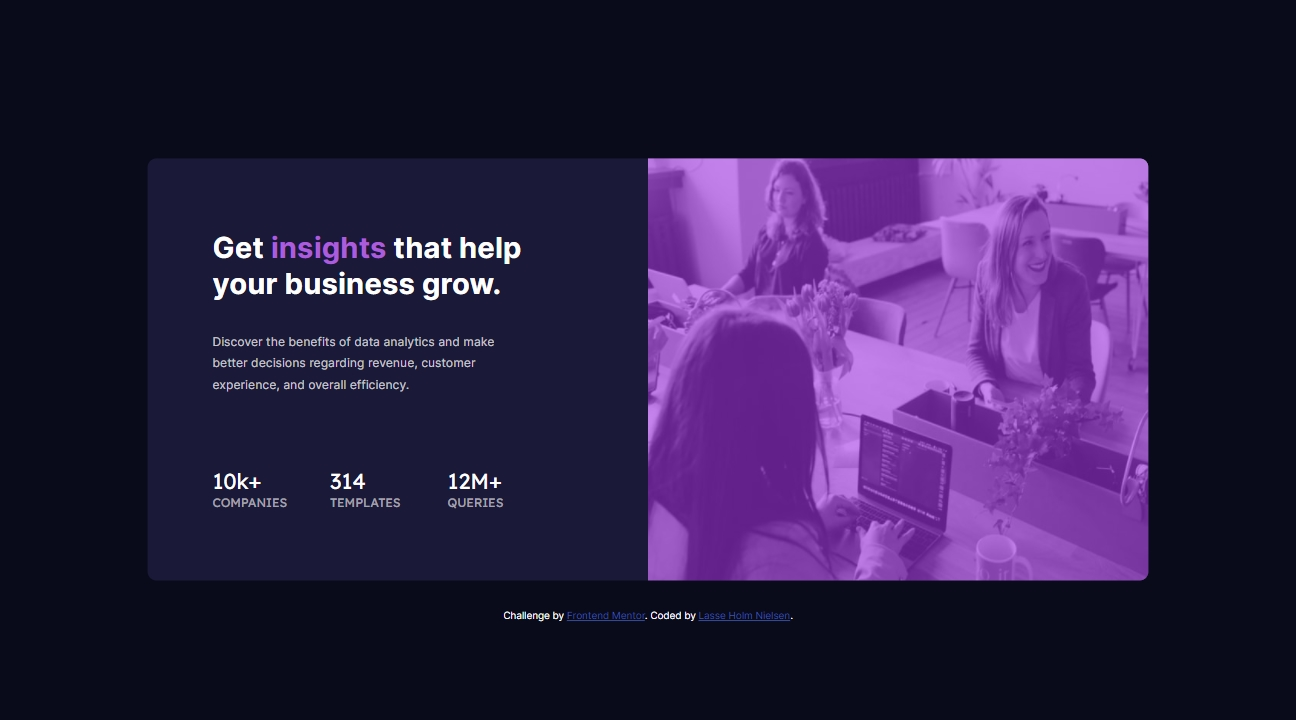
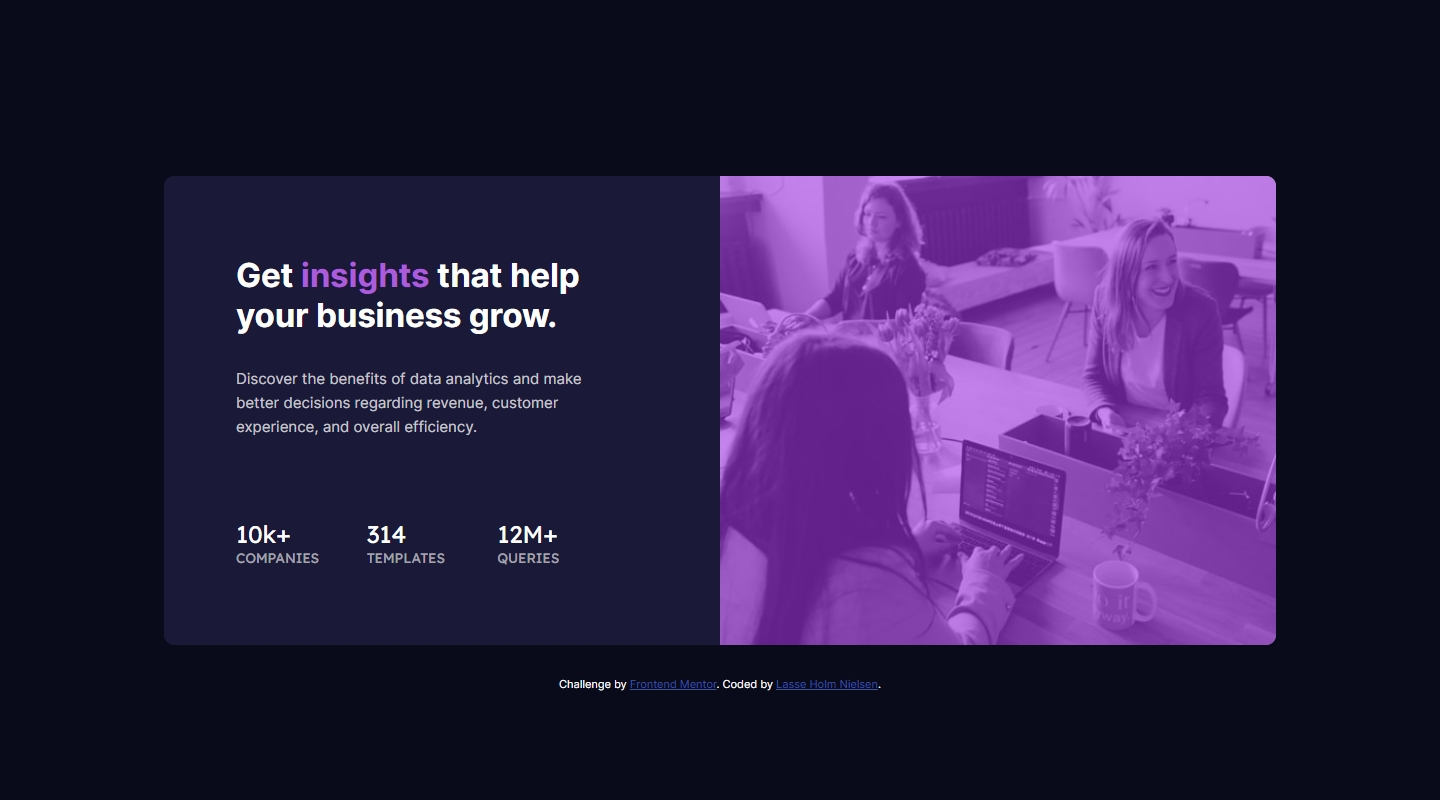
Added CSS variables for colors. Updating readme file.

diff --git a/CSS/Styles.css b/CSS/Styles.css
@@ -1,5 +1,18 @@
 @import url('https://fonts.googleapis.com/css2?family=Inter:wght@400;700&family=Lexend+Deca&display=swap');
 
+:root {
+    --primary-bg-main: hsl(233, 47%, 7%);
+    --primary-bg-card: hsl(244, 38%, 16%);
+    --primary-text-accent: hsl(277, 64%, 61%);
+
+    --secondary-text-attribution: hsl(228, 45%, 44%);
+
+    --neutral-text-white: hsl(0, 0%, 100%);
+    --neutral-text-main: hsla(0, 0%, 100%, 0.75);
+    --neutral-text-stat: hsla(0, 0%, 100%, 0.6);
+    --neutral-image-overlay: hsla(277, 77%, 55%, 0.6);
+}
+
 *,
 *::before,
 *::after {
@@ -9,8 +22,8 @@
 }
 
 body {
-    background-color: hsl(233, 47%, 7%);
-    color: hsl(0, 0%, 100%);
+    background-color: var(--primary-bg-main);
+    color: var(--neutral-text-white);
     font-family: 'Inter', sans-serif;
     font-size: 1.375rem;
     padding: 5.5rem 1.5rem;
@@ -18,7 +31,7 @@ body {
 }
 
 .card {
-    background-color: hsl(244, 38%, 16%);
+    background-color: var(--primary-bg-card);
     border-radius: 10px;
     display: flex;
     flex-direction: column;
@@ -41,7 +54,7 @@ body {
     right: 0;
     bottom: 5px;
     left: 0;
-    background: hsla(277, 77%, 55%, 0.6);
+    background: var(--neutral-image-overlay);
 }
 
 .hero--image {
@@ -54,14 +67,14 @@ body {
 }
 
 .accent {
-    color: hsl(277, 64%, 61%);
+    color: var(--primary-text-accent);
     font-style: normal;
 }
 
 .card--main {
-    color: hsla(0, 0%, 100%, 0.75);
+    color: var(--neutral-text-main);
     text-align: center;
-    font-size: 0.85rem;
+    font-size: 15px;
     padding: 0 2.5rem 0 2.5rem;
     line-height: 1.5rem;
 }
@@ -84,7 +97,7 @@ body {
 }
 
 .card--stats-upper {
-    color: hsla(0, 0%, 100%, 0.6);
+    color: var(--neutral-text-stat);
     text-transform: uppercase;
     font-size: 0.85rem;
 }
@@ -99,7 +112,7 @@ body {
 }
 
 .attribution a {
-    color: hsl(228, 45%, 44%);
+    color: var(--secondary-text-attribution);
 }
 
 @media (min-width: 1440px) {

diff --git a/index.html b/index.html
@@ -14,7 +14,7 @@
     <section class="hero">
       <picture>
         <source media="(min-width: 1440px)" srcset="./images/image-header-desktop.jpg">
-        <img class="hero--image" src="./images/image-header-mobile.jpg" alt="">
+        <img class="hero--image" src="./images/image-header-mobile.jpg" alt="Cozy office environment with colleagues working and having fun">
       </picture>
     </section>
     <section class="card--body">

diff --git a/README.md b/README.md
@@ -44,13 +44,13 @@ Users should be able to:
 
 ### What I learned
 
-Having been away from frontend development for a long while and also since I don't do it for a living - this challenge was more about getting the rust cleaned off and getting slowly up to speed again.
+Since I have only been working with server side code for almost a year now, this challenge was more about getting the CSS-rust cleaned off and getting slowly up to speed again on frontend coding.
 
-Also, working from a pre-defined layout is not something I have done often, so that was a good experience having a layout I didn't have to come up with myself. I have often found myself getting tired of a project, if I had to design it myself first.
+Also, working from a pre-defined layout is not something I have done often, so that was a good experience having a layout I didn't have to come up with myself. I have often found myself getting tired of a project, if I had to design it myself first. I just find coding a lot more fun than designing.
 
 ### Continued development
 
-As expected when I got started on this project, flexbox caused me most headaches. Flexbox is definitely something I need to work a lot more on.
+As expected when I got started on this project, flexbox and image handling caused me most headaches. This is definitely something I need to work a lot more on.
 
 ## Author
 
